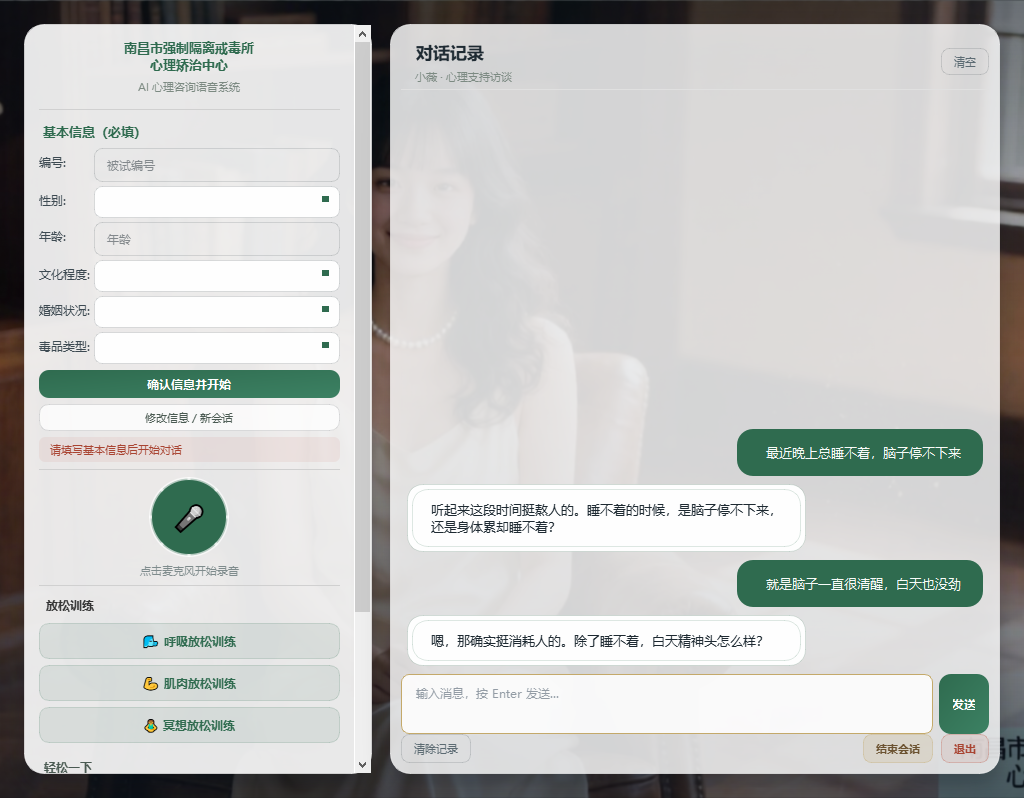
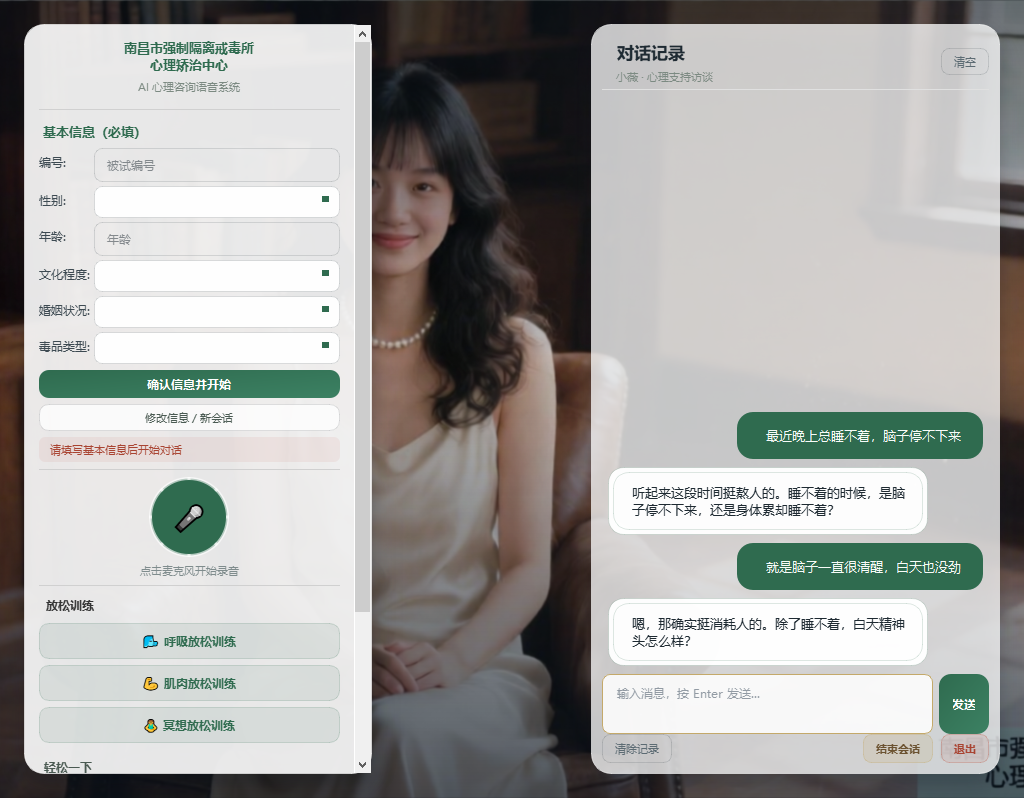
UI: keep the counsellor visible, type AI text at speaking pace
Two requests from the live window:

1. The chat card spanned the whole window and covered the counsellor
   portrait.  It is now a right-aligned column of 400-560px (40% of the
   window, clamped) with a stretch in front of it, the card alpha drops to
   0.76, and paintEvent anchors the photo so the subject sits centred in
   the band left between the control rail and the chat column - resizing
   widens or narrows that band instead of hiding her.

2. AI text appeared in instant token bursts.  stream_text now buffers the
   incoming chunks and a 220ms tick reveals one character (~4.5 chars/s,
   matching the TTS pace), speeding up to 2-4 chars when a backlog builds
   so text never lags far behind the voice.  finish_streaming keeps
   draining, and start/replace/clear flush the buffer.

Also fixes clear_chat, which deleted only the bubble and left its wrapper
row visible (a stale reply stayed at the top after clearing) - it now
drains the layout and resets the status indicator.

Verified: 0 chars visible immediately, 5 after 1.2s; renders at 1024 and
1440 show the portrait in the band; 1671 tests pass.

diff --git a/ui/chat_panel.py b/ui/chat_panel.py
@@ -46,14 +46,22 @@ class ChatPanel(FrostedPanel):
     text_submitted = Signal(str)
 
     def __init__(self, parent=None):
-        super().__init__(alpha=0.82, radius=20, parent=None)
+        super().__init__(alpha=0.76, radius=20, parent=None)
         self.setObjectName("chatPanel")
-        self.setMinimumWidth(440)
+        self.setMinimumWidth(400)
+        self.setMaximumWidth(560)
         self._messages = []
         self._current_streaming_bubble = None
         self._active_generation_id = None
         self._next_generation_seq = 0
+        # Typewriter reveal: text appears at roughly speaking pace instead of
+        # as instant token bursts, so the bubble keeps up with the voice.
+        self._type_buffer = ""
+        self._type_bubble = None
+        self._type_finished = False
         self._setup_ui()
+        self._type_ticker = QTimer(self)
+        self._type_ticker.timeout.connect(self._reveal_tick)
 
     def _setup_ui(self):
         layout = QVBoxLayout(self)
@@ -255,6 +263,7 @@ class ChatPanel(FrostedPanel):
 
     def replace_last_ai_message(self, text):
         """Replace the text of the last AI message bubble (for dynamic greeting updates)."""
+        self._flush_typing()
         for msg in reversed(self._messages):
             if msg["type"] == "ai":
                 msg["bubble"].set_text(text)
@@ -264,6 +273,7 @@ class ChatPanel(FrostedPanel):
 
     def start_ai_message(self, generation_id=None):
         """Start a new AI message bubble for streaming."""
+        self._flush_typing()
         self._active_generation_id = generation_id
         self._next_generation_seq = 0
         bubble = MessageBubble("", is_user=False)
@@ -282,22 +292,70 @@ class ChatPanel(FrostedPanel):
                     return False
                 self._next_generation_seq += 1
         if self._current_streaming_bubble:
-            self._current_streaming_bubble.append_text(chunk)
+            bubble = self._current_streaming_bubble
+            self._type_bubble = bubble
+            self._type_buffer += chunk
+            # History keeps the full received text; the bubble reveals it at
+            # speaking pace.
             if self._messages:
-                self._messages[-1]["text"] = self._current_streaming_bubble.full_text
-            self._scroll_to_bottom()
+                self._messages[-1]["text"] = bubble.full_text + self._type_buffer
+            if not self._type_ticker.isActive():
+                self._type_ticker.start(self.TYPE_TICK_MS)
             return True
         return False
 
+    # ~4.5 characters per second matches the TTS pace; a large backlog speeds
+    # up so the text never falls far behind the voice.
+    TYPE_TICK_MS = 220
+
+    def _reveal_tick(self):
+        """Move a few buffered characters into the bubble (typewriter)."""
+        bubble = self._type_bubble
+        if bubble is None:
+            self._type_ticker.stop()
+            return
+        backlog = len(self._type_buffer)
+        if backlog:
+            step = 1
+            if backlog > 160:
+                step = 4
+            elif backlog > 80:
+                step = 2
+            bubble.append_text(self._type_buffer[:step])
+            self._type_buffer = self._type_buffer[step:]
+            self._scroll_to_bottom()
+        if not self._type_buffer and self._type_finished:
+            self._type_finished = False
+            self._type_bubble = None
+            self._type_ticker.stop()
+            self.status_indicator.set_state("idle")
+            self._scroll_to_bottom()
+
+    def _flush_typing(self):
+        """Reveal everything still buffered and stop the ticker."""
+        if self._type_bubble is not None and self._type_buffer:
+            self._type_bubble.append_text(self._type_buffer)
+        self._type_buffer = ""
+        self._type_finished = False
+        self._type_bubble = None
+        if getattr(self, "_type_ticker", None) is not None:
+            self._type_ticker.stop()
+
     def finish_streaming(self, generation_id=None):
-        """Mark streaming as complete."""
+        """Mark streaming as complete; buffered text keeps revealing."""
         if generation_id is not None and generation_id != self._active_generation_id:
             return False
         self._current_streaming_bubble = None
         self._active_generation_id = None
         self._next_generation_seq = 0
-        self.status_indicator.set_state("idle")
-        self._scroll_to_bottom()
+        self._type_finished = True
+        if not self._type_buffer:
+            # Nothing left to type out (e.g. a cancelled or empty reply).
+            self._type_finished = False
+            self._type_bubble = None
+            self._type_ticker.stop()
+            self.status_indicator.set_state("idle")
+            self._scroll_to_bottom()
         return True
 
     def set_ai_status(self, status):
@@ -395,10 +453,17 @@ class ChatPanel(FrostedPanel):
         self.clear_clicked.emit()
 
     def clear_chat(self):
-        """Remove all message bubbles."""
-        for msg in self._messages:
-            bubble = msg.get("bubble")
-            if bubble:
-                bubble.deleteLater()
+        """Remove every message row (bubbles now live inside wrapper rows)."""
+        self._flush_typing()
+        # Deleting only the bubble left its row alive with a stale snapshot,
+        # so clear the layout itself and keep the leading spacer.
+        while self._msg_layout.count() > 1:
+            item = self._msg_layout.takeAt(1)
+            widget = item.widget() if item is not None else None
+            if widget is not None:
+                widget.setParent(None)
+                widget.deleteLater()
         self._messages.clear()
         self._current_streaming_bubble = None
+        self._active_generation_id = None
+        self.status_indicator.set_state("idle")

diff --git a/ui/main_window.py b/ui/main_window.py
@@ -220,9 +220,12 @@ class MainWindow(QMainWindow):
         self.control_panel = ControlPanel()
         main_layout.addWidget(self.control_panel, 0)
 
-        # Right chat panel (fills the rest of the window)
+        # Right chat column: a bounded floating card, right-aligned.  It used
+        # to stretch across the whole window and hid the counsellor portrait
+        # that is the visual anchor of this screen.
+        main_layout.addStretch(1)
         self.chat_panel = ChatPanel()
-        main_layout.addWidget(self.chat_panel, 1)
+        main_layout.addWidget(self.chat_panel, 0)
 
         # Loading screen (overlay on top)
         self.loading_screen = LoadingScreen(central)
@@ -270,8 +273,11 @@ class MainWindow(QMainWindow):
             scaled = self._bg_pixmap.scaled(
                 self.size(), Qt.KeepAspectRatioByExpanding, Qt.SmoothTransformation
             )
-            x = (self.width() - scaled.width()) // 2
             y = (self.height() - scaled.height()) // 2
+            # Anchor the portrait (subject at ~50% of the photo) in the band
+            # left visible between the control rail and the chat column, so
+            # resizing widens or narrows the photo band but never hides her.
+            x = self._background_offset_x(scaled.width())
             painter.drawPixmap(x, y, scaled)
 
             # Scrim: darker at the edges, lighter in the middle so the
@@ -287,6 +293,29 @@ class MainWindow(QMainWindow):
             painter.fillRect(self.rect(), QColor(9, 18, 28))
             painter.end()
         super().paintEvent(event)
+
+    def resizeEvent(self, event):  # noqa: N802 - Qt naming
+        """Keep the chat column a readable width without swallowing the photo."""
+        super().resizeEvent(event)
+        panel = getattr(self, "chat_panel", None)
+        if panel is None:
+            return
+        target = max(400, min(560, int(self.width() * 0.40)))
+        if panel.width() != target:
+            panel.setFixedWidth(target)
+
+    def _background_offset_x(self, scaled_width: int) -> int:
+        """Horizontal offset that keeps the portrait inside the visible band."""
+        try:
+            left = self.control_panel.geometry().right() + 18
+            right = self.chat_panel.geometry().left()
+        except Exception:
+            left, right = 0, self.width()
+        band_center = (left + right) // 2 if right > left else self.width() // 2
+        offset = band_center - scaled_width // 2
+        # Never show empty space at either edge of the window.
+        min_offset = self.width() - scaled_width
+        return max(min_offset, min(0, offset))
 
     def _connect_signals(self):
         # Control panel signals
